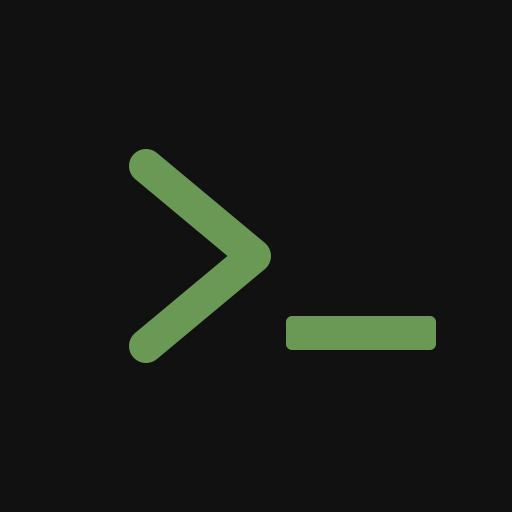
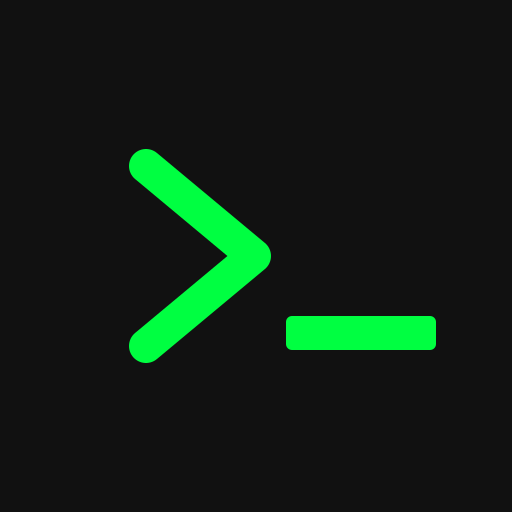
refactor: unify theme color with the Matrix rain green
MAIN_COLOR/GLOW_COLOR now use the same authentic Matrix green as the
rain effect (MATRIX_COLOR just references MAIN_COLOR, single source
of truth), with matching CSS variable fallbacks and rasterized PWA
icons regenerated from the updated icon.svg.

Claude-Session: https://claude.ai/code/session_01PxMJpJsud1yDw7tPA7qJGZ

Changed region(s): [[0.25, 0.2812, 0.5312, 0.7188], [0.5312, 0.5938, 0.875, 0.6875]]

diff --git a/css/style.css b/css/style.css
@@ -2,16 +2,16 @@
 
 :root {
   --bg-color: #111;
-  --text-color: var(--main-color, #6A9955);
-  --prompt-color: var(--main-color, #6A9955);
+  --text-color: var(--main-color, #00FF41);
+  --prompt-color: var(--main-color, #00FF41);
   --error-color: #C96A6A;
-  --art-color: var(--main-color, #6A9955);
+  --art-color: var(--main-color, #00FF41);
   --font-stack: 'VT323', monospace;
   --radius-lg: 2rem;
   --radius-md: 1rem;
   --radius-sm: 0.5rem;
   --value-color: #fff;
-  --note-color: rgba(var(--main-color-rgb, 106, 153, 85), 0.6);
+  --note-color: rgba(var(--main-color-rgb, 0, 255, 65), 0.6);
 }
 
 body {
@@ -60,7 +60,7 @@ body {
   overflow-y: auto;
   overflow-x: hidden;
   font-size: var(--terminal-font-size, 2rem);
-  text-shadow: 0 0 1px var(--glow-color, #3D5C33);
+  text-shadow: 0 0 1px var(--glow-color, #009927);
   position: relative;
   z-index: 1;
   animation: flicker 0.5s infinite;
@@ -136,7 +136,7 @@ body {
   background-color: var(--text-color);
   vertical-align: middle;
   margin-left: 1px;
-  box-shadow: 0 0 2px var(--main-color, #6A9955), 0 0 5px rgba(var(--main-color-rgb, 106, 153, 85), 0.4);
+  box-shadow: 0 0 2px var(--main-color, #00FF41), 0 0 5px rgba(var(--main-color-rgb, 0, 255, 65), 0.4);
   animation: blink 1s step-end infinite;
 }
 
@@ -198,7 +198,7 @@ a:hover {
   bottom: 0;
   right: 0;
   background: linear-gradient(rgba(18, 16, 16, 0) 50%, rgba(0, 0, 0, 0.12) 50%),
-              linear-gradient(90deg, rgba(255, 0, 0, 0.03), rgba(var(--main-color-rgb, 106, 153, 85), 0.01), rgba(0, 0, 255, 0.03));
+              linear-gradient(90deg, rgba(255, 0, 0, 0.03), rgba(var(--main-color-rgb, 0, 255, 65), 0.01), rgba(0, 0, 255, 0.03));
   z-index: 2;
   background-size: 100% var(--scanline-height, 4px), var(--scanline-width, 6px) 100%;
   pointer-events: none;
@@ -226,9 +226,9 @@ a:hover {
 }
 
 @keyframes scroll-line {
-  0% { transform: translateY(-100%); background: linear-gradient(to bottom, rgba(0,0,0,0) 0%, rgba(var(--main-color-rgb, 106, 153, 85), 0.025) 50%, rgba(0,0,0,0) 100%); opacity: 0.5; }
+  0% { transform: translateY(-100%); background: linear-gradient(to bottom, rgba(0,0,0,0) 0%, rgba(var(--main-color-rgb, 0, 255, 65), 0.025) 50%, rgba(0,0,0,0) 100%); opacity: 0.5; }
   10% { opacity: 0.15; }
-  100% { transform: translateY(100%); background: linear-gradient(to bottom, rgba(0,0,0,0) 0%, rgba(var(--main-color-rgb, 106, 153, 85), 0.025) 50%, rgba(0,0,0,0) 100%); opacity: 0; }
+  100% { transform: translateY(100%); background: linear-gradient(to bottom, rgba(0,0,0,0) 0%, rgba(var(--main-color-rgb, 0, 255, 65), 0.025) 50%, rgba(0,0,0,0) 100%); opacity: 0; }
 }
 
 /* --- UPDATED STATUS BAR --- */
@@ -294,9 +294,9 @@ a:hover {
   width: 85vw;
   height: 85vh;
   background: #001100;
-  border: 2px solid var(--main-color, #6A9955);
+  border: 2px solid var(--main-color, #00FF41);
   border-radius: var(--radius-sm);
-  box-shadow: 0 0 8px var(--glow-color, #3D5C33), 0 0 30px rgba(0, 0, 0, 0.6);
+  box-shadow: 0 0 8px var(--glow-color, #009927), 0 0 30px rgba(0, 0, 0, 0.6);
   display: flex;
   flex-direction: column;
   overflow: hidden;
@@ -307,10 +307,10 @@ a:hover {
   justify-content: space-between;
   align-items: center;
   padding: 0.75rem 1.25rem;
-  border-bottom: 2px solid var(--main-color, #6A9955);
+  border-bottom: 2px solid var(--main-color, #00FF41);
   color: var(--text-color);
   font-family: var(--font-stack);
-  text-shadow: 0 0 1px var(--glow-color, #3D5C33);
+  text-shadow: 0 0 1px var(--glow-color, #009927);
   flex-shrink: 0;
 }
 
@@ -361,7 +361,7 @@ a:hover {
   color: var(--text-color);
   font-family: var(--font-stack);
   font-size: 1.5rem;
-  text-shadow: 0 0 1px var(--glow-color, #3D5C33);
+  text-shadow: 0 0 1px var(--glow-color, #009927);
 }
 
 @media (hover: none) and (pointer: coarse) {

diff --git a/js/config.js b/js/config.js
@@ -2,8 +2,8 @@ export const PROMPT_TEXT = 'guest@oleksiisedun:~';
 export const STATUS_BAR_HEIGHT = 75;
 export const TERMINAL_FONT_SIZE = "1.5rem";
 export const STATUS_BAR_FONT_SIZE = "16px";
-export const MAIN_COLOR = "#6A9955";
-export const GLOW_COLOR = "#3D5C33";
+export const MAIN_COLOR = "#00FF41";
+export const GLOW_COLOR = "#009927";
 export const PIXEL_SIZE = 1;
 export const BACKGROUND_COLOR = "#111111";
 
@@ -32,7 +32,7 @@ export const MOBILE_KEYBOARD_DELAY = 300; // ms, wait for mobile keyboard animat
 
 // Matrix rain tuning (triple-tap Mochi easter egg, mobile only)
 export const MATRIX_CHARS = 'ｦｱｳｴｵｶｷｸｹｺｻｼｽｾｿﾀﾂﾃﾅﾆﾇﾈﾊﾋﾎﾏﾐﾑﾒﾔﾕﾗﾘﾜｲﾁﾄﾉﾌﾍﾓﾖﾙﾚﾛﾝ0123456789ABCDEFGHIJKLMNOPQRSTUVWXYZ';
-export const MATRIX_COLOR = '#00FF41';
+export const MATRIX_COLOR = MAIN_COLOR; // same authentic green as the rest of the theme
 export const MATRIX_FONT_SIZE = 18; // px
 export const MATRIX_FRAME_INTERVAL_MS = 40;
 export const MATRIX_DROP_RESET_CHANCE = 0.975; // probability a column does NOT reset once past the bottom

diff --git a/css/mochi.css b/css/mochi.css
@@ -53,12 +53,12 @@
 .eye {
     width: 60px;
     height: 80px;
-    background-color: var(--main-color, #6A9955);
+    background-color: var(--main-color, #00FF41);
     border-radius: 12px;
     position: relative;
     box-shadow:
-        0 0 8px var(--main-color, #6A9955),
-        0 0 18px rgba(var(--main-color-rgb, 106, 153, 85), 0.25);
+        0 0 8px var(--main-color, #00FF41),
+        0 0 18px rgba(var(--main-color-rgb, 0, 255, 65), 0.25);
     will-change: transform; /* Smoother animation */
 }
 
